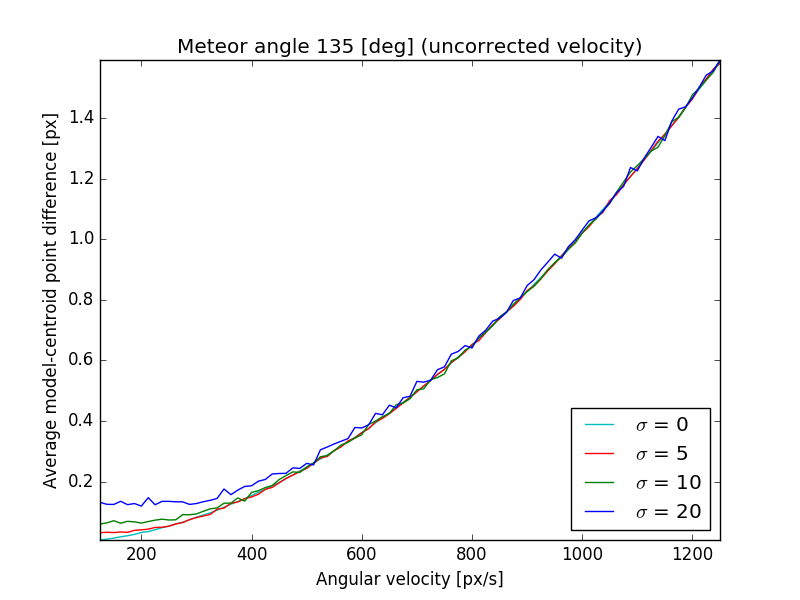
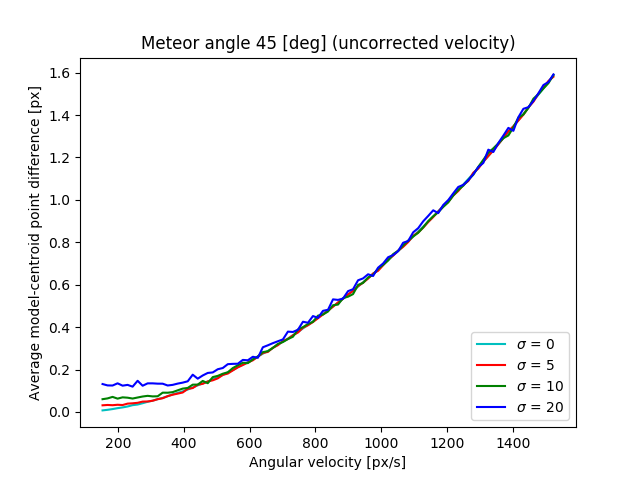
final deceleration correction done

diff --git a/Source/DecelerationCheck.py b/Source/DecelerationCheck.py
@@ -17,12 +17,13 @@ time_mark = 'beginning'
 # Initial parameters of the meteor
 omega = 50
 phi = 45
-t_meteor = 10/par.fps
+t_meteor = 0.5
 
 # Deceleration parameters of the meteor
 a = 1
 v_start = omega
 v_finish = omega*0.9
+
 
 # Form deceleration parameters array
 dec_arr = [a, st.getparam(a, v_start, v_finish, t_meteor)]
@@ -72,7 +73,7 @@ for i in range(len(centroid_rolling_coordinates)):
 
 	plt.savefig('temp/{}.png'.format(i))
 
-	plt.show()
+	# plt.show()
 	
 # time_rolling_coordinates, centroid_rolling_coordinates, model_rolling_coordinates_spat = st.pointsCentroidAndModel(rolling_shutter, t_meteor, phi, \
 	# omega, par.img_x, par.img_y, par.scale, par.fps, par.sigma_x, par.sigma_y, noise, par.offset, dec_arr, show_plots, centroid_rolling_coordinates_vcorr)
@@ -136,3 +137,5 @@ plt.show()
 # diff_avg_temp = st.centroidAverageDifference(model_rolling_coordinates_temp, centroid_rolling_coordinates)
 
 # print('Average difference (temporal correction): {:.2f} [px]'.format(diff_avg_temp))
+
+

diff --git a/Source/SimulationTools.py b/Source/SimulationTools.py
@@ -250,11 +250,8 @@ def pointsCentroidAndModel(rolling_shutter, t_meteor, phi, omega, img_x, img_y, 
 
         # Define time limits
         t_start = -t_meteor/2 + i*(1/fps)
-        t_finish = -t_meteor/2 + (i + 1)*(1/fps)
 
-        # Last frame case
-        if i == (frame_number - 1):
-           t_finish = t_meteor/2
+        t_finish = -t_meteor/2 + (i + 1)*(1/fps)
 
         # print("time limits: {:.4f} {:.4f}".format(t_start, t_finish))
 
@@ -344,7 +341,6 @@ def pointsCentroidAndModel(rolling_shutter, t_meteor, phi, omega, img_x, img_y, 
                 # plt.show()
                 # plt.imshow(read_image_array)
                 # plt.show()
-
 
         
         if rolling_shutter:

diff --git a/Source/ODN-RvPlot.py b/Source/ODN-RvPlot.py
@@ -10,7 +10,7 @@ import Parameters as par
 data = np.load('../Data/ODN/data_odn_v_rolling.npz')
 
 # Unpack and set array names
-omega_arr = data['arr_0'] * par.fps
+omega_arr = data['arr_0'] * par.scale
 noise0_data = data['arr_1']
 noise1_data = data['arr_2']
 noise2_data = data['arr_3']

diff --git a/Source/ODN-Rv_corrPlot.py b/Source/ODN-Rv_corrPlot.py
@@ -31,6 +31,7 @@ plt.title("Meteor angle {} [deg] (corrected velocity)".format(par.phi))
 
 # Configure the plot axis
 plt.axis('tight')
+plt.ylim((0, 0.22))
 
 # Save and show plot
 plt.savefig('../Graphs/ODN/graph_odn_v_corr_rolling.png')

diff --git a/Source/ODN-Rtemp_corrPlot.py b/Source/ODN-Rtemp_corrPlot.py
@@ -31,6 +31,7 @@ plt.title("Meteor angle {} [deg] (temporal correction)".format(par.phi))
 
 # Configure the plot axis
 plt.axis('tight')
+plt.ylim((0, 0.22))
 
 # Save and show plot
 plt.savefig('../Graphs/ODN/graph_odn_temp_rolling.png')

diff --git a/Source/DecelerationPlot.py b/Source/DecelerationPlot.py
@@ -30,7 +30,7 @@ for i in range(len(t_arr)):
 
 	t_meteor = t_arr[i]
 
-	print('{:.4f}'.format(t_meteor))
+	print('{}'.format(t_meteor))
 
 	# Form deceleration parameters array
 	dec_arr = [a, st.getparam(a, v_start, v_finish, t_meteor)]
